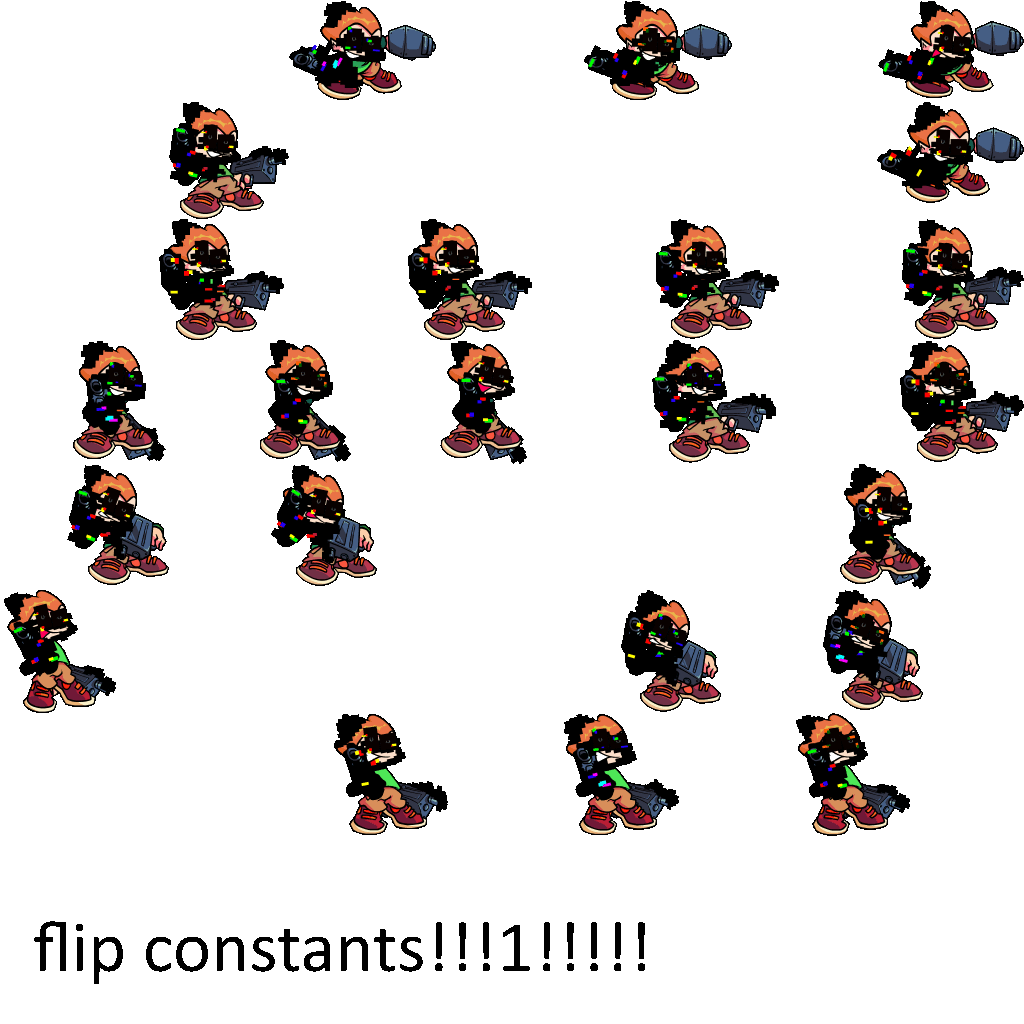
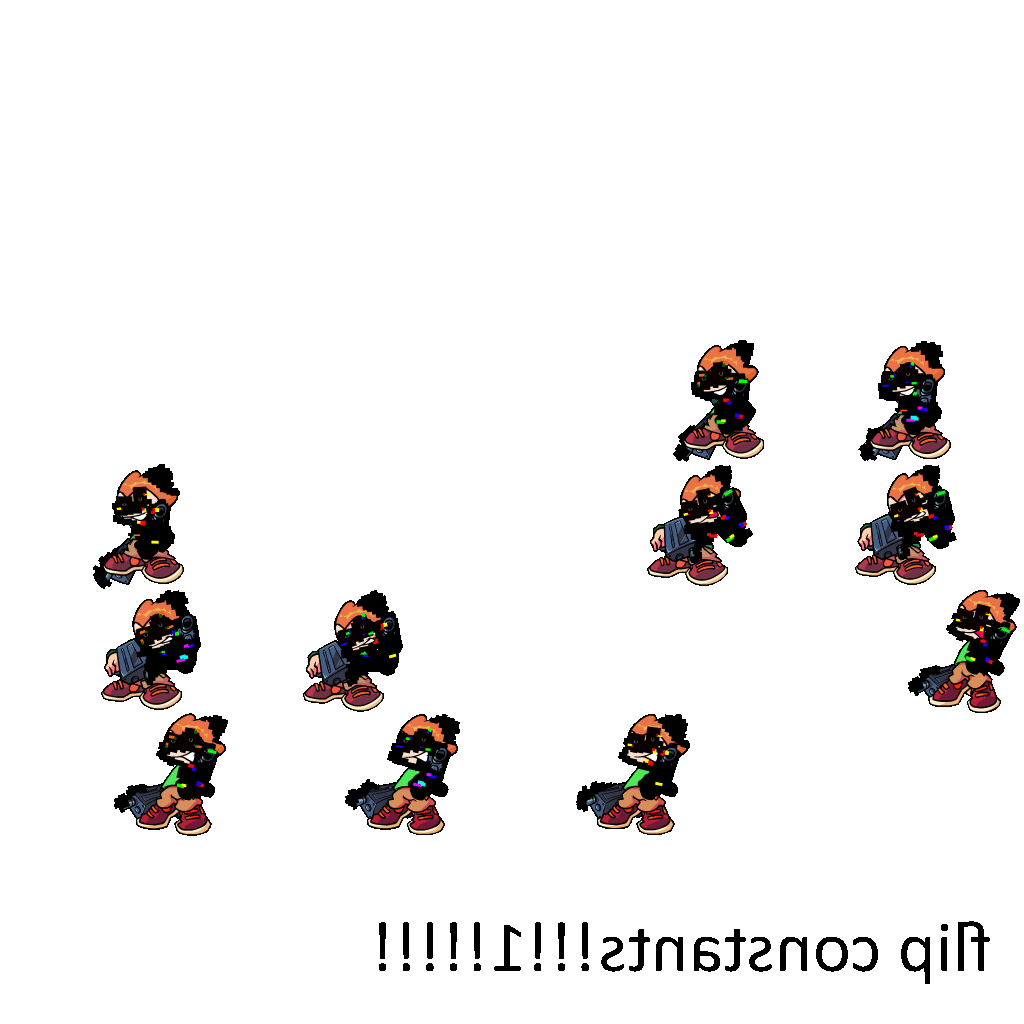
stuffs

diff --git a/src/character/pico.c b/src/character/pico.c
@@ -1,0 +1,177 @@
+/*
+  This Source Code Form is subject to the terms of the Mozilla Public
+  License, v. 2.0. If a copy of the MPL was not distributed with this
+  file, You can obtain one at http://mozilla.org/MPL/2.0/.
+*/
+
+#include "pico.h"
+
+#include "../mem.h"
+#include "../archive.h"
+#include "../stage.h"
+#include "../main.h"
+
+//pico character structure
+enum
+{
+	pico_ArcMain_Idle0,
+	pico_ArcMain_Idle1,
+	pico_ArcMain_Hit0,
+	pico_ArcMain_Hit1,
+	pico_ArcMain_Hit2,
+	pico_ArcMain_Hit3,
+	pico_ArcMain_Hit4,
+	
+	pico_Arc_Max,
+};
+
+typedef struct
+{
+	//Character base structure
+	Character character;
+	
+	//Render data and state
+	IO_Data arc_main;
+	IO_Data arc_ptr[pico_Arc_Max];
+	
+	Gfx_Tex tex;
+	u8 frame, tex_id;
+} Char_pico;
+
+//pico character definitions
+static const CharFrame char_pico_frame[] = {
+	{pico_ArcMain_Idle0, {  0,   0, 120, 117}, {0,  117}}, //0 idle 1
+	{pico_ArcMain_Idle0, {120,   0, 122, 120}, {0,  120}}, //1 idle 2
+	{pico_ArcMain_Idle0, {  0, 117, 123, 120}, {0,  119}}, //2 idle 3
+	{pico_ArcMain_Idle0, {123, 120, 124, 121}, {0,  121}}, //3 idle 4
+	{pico_ArcMain_Idle1, {  0,   0, 125, 121}, {0,  121}}, //4 idle 5
+	{pico_ArcMain_Idle1, {125,   0, 124, 121}, {0,  121}}, //5 idle 6
+	{pico_ArcMain_Idle1, {  0, 121, 124, 123}, {0,  122}}, //6 idle 7
+
+	{pico_ArcMain_Hit2, { 91,  123, 106,  121}, {0,  121}}, //4 left 1
+	{pico_ArcMain_Hit3, {  0,   0,  102,  120}, {0,  120}}, //5 left 2
+	{pico_ArcMain_Hit3, {102,   0,  100,  120}, {0,  120}}, //4 left 1
+	{pico_ArcMain_Hit3, {  0, 120,  100,  122}, {0,  121}}, //5 left 2
+
+	{pico_ArcMain_Hit0, {  0,   0, 146,  97}, {0,  97}}, //6 down 1
+	{pico_ArcMain_Hit0, {  0,  97, 148,  99}, {0,  99}}, //7 down 2
+	{pico_ArcMain_Hit1, {  0,   0, 147,  99}, {0,  99}}, //6 down 1
+	{pico_ArcMain_Hit1, {  0,  99, 147,  101}, {0,  101}}, //7 down 2
+
+	{pico_ArcMain_Hit3, {100, 120, 112,  123}, {0, 123}}, //8 up 1
+	{pico_ArcMain_Hit4, {  0,   0, 114,  123}, {0,  122}}, //9 up 2
+	{pico_ArcMain_Hit4, {114,   0, 115,  121}, {0,  121}}, //8 up 1
+	{pico_ArcMain_Hit4, {  0, 123, 114,  121}, {0,  0}}, //9 up 2
+	
+	{pico_ArcMain_Idle1,  {124, 121, 87, 123}, {0,  117}}, //10 right 1
+	{pico_ArcMain_Hit2, {  0,   0, 91, 122}, {0,  119}}, //11 right 2
+	{pico_ArcMain_Hit2, { 91,   0, 93, 120}, {0,  118}}, //10 right 1
+	{pico_ArcMain_Hit2, {  0, 122, 91, 125}, {0,  120}}, //11 right 2
+};
+
+static const Animation char_pico_anim[CharAnim_Max] = {
+	{2, (const u8[]){ 0, 1, 2, 3, 4, 5, 6, 7, ASCR_BACK, 0}}, //CharAnim_Idle
+	{2, (const u8[]){ 8, 9, 10, 11, ASCR_BACK, 0}},         //CharAnim_Left
+	{0, (const u8[]){ASCR_CHGANI, CharAnim_Idle}},   //CharAnim_LeftAlt
+	{2, (const u8[]){ 12, 13, 14, 15, ASCR_BACK, 0}},         //CharAnim_Down
+	{0, (const u8[]){ASCR_CHGANI, CharAnim_Idle}},   //CharAnim_DownAlt
+	{2, (const u8[]){ 16, 17, 18, 19, ASCR_BACK, 0}},         //CharAnim_Up
+	{0, (const u8[]){ASCR_CHGANI, CharAnim_Idle}},   //CharAnim_UpAlt
+	{2, (const u8[]){ 20, 21, 22, 23, ASCR_BACK, 0}},         //CharAnim_Right
+	{0, (const u8[]){ASCR_CHGANI, CharAnim_Idle}},   //CharAnim_RightAlt
+};
+
+//pico character functions
+void Char_pico_SetFrame(void *user, u8 frame)
+{
+	Char_pico *this = (Char_pico*)user;
+	
+	//Check if this is a new frame
+	if (frame != this->frame)
+	{
+		//Check if new art shall be loaded
+		const CharFrame *cframe = &char_pico_frame[this->frame = frame];
+		if (cframe->tex != this->tex_id)
+			Gfx_LoadTex(&this->tex, this->arc_ptr[this->tex_id = cframe->tex], 0);
+	}
+}
+
+void Char_pico_Tick(Character *character)
+{
+	Char_pico *this = (Char_pico*)character;
+	
+	//Perform idle dance
+	if ((character->pad_held & (INPUT_LEFT | INPUT_DOWN | INPUT_UP | INPUT_RIGHT)) == 0)
+		Character_PerformIdle(character);
+	
+	//Animate and draw
+	Animatable_Animate(&character->animatable, (void*)this, Char_pico_SetFrame);
+	Character_CharacterFlip(character, &this->tex, &char_pico_frame[this->frame], FIXED_UNIT);
+}
+
+void Char_pico_SetAnim(Character *character, u8 anim)
+{
+	//Set animation
+	Animatable_SetAnim(&character->animatable, anim);
+	Character_CheckStartSing(character);
+}
+
+void Char_pico_Free(Character *character)
+{
+	Char_pico *this = (Char_pico*)character;
+	
+	//Free art
+	Mem_Free(this->arc_main);
+}
+
+Character *Char_pico_New(fixed_t x, fixed_t y)
+{
+	//Allocate pico object
+	Char_pico *this = Mem_Alloc(sizeof(Char_pico));
+	if (this == NULL)
+	{
+		sprintf(error_msg, "[Char_pico_New] Failed to allocate pico object");
+		ErrorLock();
+		return NULL;
+	}
+	
+	//Initialize character
+	this->character.tick = Char_pico_Tick;
+	this->character.set_anim = Char_pico_SetAnim;
+	this->character.free = Char_pico_Free;
+	
+	Animatable_Init(&this->character.animatable, char_pico_anim);
+	Character_Init((Character*)this, x, y);
+	
+	//Set character information
+	this->character.spec = 0;
+	
+	this->character.health_i = 1;
+	
+	this->character.focus_x = FIXED_DEC(-142 - -120,1);
+	this->character.focus_y = FIXED_DEC(25 - 120,1);
+	this->character.focus_zoom = FIXED_DEC(8,10);
+	
+	//Load art
+	this->arc_main = IO_Read("\\CHAR\\PICO.ARC;1");
+	
+	const char **pathp = (const char *[]){
+		"idle0.tim", //pico_ArcMain_Idle0
+		"idle1.tim", //pico_ArcMain_Idle1
+		"hit0.tim",
+		"hit1.tim",
+		"hit2.tim",
+		"hit3.tim",
+		"hit4.tim",
+		
+		NULL
+	};
+	IO_Data *arc_ptr = this->arc_ptr;
+	for (; *pathp != NULL; pathp++)
+		*arc_ptr++ = Archive_Find(this->arc_main, *pathp);
+	
+	//Initialize render state
+	this->tex_id = this->frame = 0xFF;
+	
+	return (Character*)this;
+}

diff --git a/src/stage/week2.c b/src/stage/week2.c
@@ -10,6 +10,9 @@
 #include "../mem.h"
 #include "../archive.h"
 
+
+//#include "../pad.h"
+//int x, y, w, h;
 //Week 2 background structure
 typedef struct
 {
@@ -29,14 +32,34 @@ void Back_Week2_DrawBG(StageBack *back)
 	fixed_t fx, fy;
 	fx = stage.camera.x;
 	fy = stage.camera.y;
-	
+/*	
+	FntPrint("x%d y%d w%d h%d", x, y, w, h);
+
+	if (pad_state.held & PAD_LEFT)
+		x++;
+	if (pad_state.held & PAD_RIGHT)
+		x--;
+	if (pad_state.held & PAD_UP)
+		y++;
+	if (pad_state.held & PAD_DOWN)
+		y--;
+
+	if (pad_state.held & PAD_SQUARE)
+		w++;
+	if (pad_state.held & PAD_CIRCLE)
+		w--;
+	if (pad_state.held & PAD_TRIANGLE)
+		h++;
+	if (pad_state.held & PAD_CROSS)
+		h--;
+ */
 	//Draw background
 	RECT back_src = {0, 0, 256, 256};
 	RECT_FIXED back_dst = {
-		FIXED_DEC(-185,1) - fx,
-		FIXED_DEC(-125,1) - fy,
-		FIXED_DEC(353,1),
-		FIXED_DEC(267,1)
+		FIXED_DEC(-227,1) - fx,
+		FIXED_DEC(-111,1) - fy,
+		FIXED_DEC(523,1),
+		FIXED_DEC(304,1)
 	};
 	
 	Stage_DrawTex(&this->tex_back0, &back_src, &back_dst, stage.camera.bzoom);

diff --git a/src/character.c b/src/character.c
@@ -40,6 +40,17 @@ void Character_DrawParallax(Character *this, Gfx_Tex *tex, const CharFrame *cfra
 	fixed_t y = this->y - FIXED_MUL(stage.camera.y, parallax) - FIXED_DEC(cframe->off[1],1);
 	
 	RECT src = {cframe->src[0], cframe->src[1], cframe->src[2], cframe->src[3]};
+	RECT_FIXED dst = {x, y, -src.w << FIXED_SHIFT, src.h << FIXED_SHIFT};
+	Stage_DrawTex(tex, &src, &dst, stage.camera.bzoom);
+}
+
+void CharacterFlip(Character *this, Gfx_Tex *tex, const CharFrame *cframe, fixed_t parallax)
+{
+	//Draw character
+	fixed_t x = this->x - FIXED_MUL(stage.camera.x, parallax) - FIXED_DEC(-cframe->off[0],1);
+	fixed_t y = this->y - FIXED_MUL(stage.camera.y, parallax) - FIXED_DEC(cframe->off[1],1);
+	
+	RECT src = {cframe->src[0], cframe->src[1], cframe->src[2], cframe->src[3]};
 	RECT_FIXED dst = {x, y, src.w << FIXED_SHIFT, src.h << FIXED_SHIFT};
 	Stage_DrawTex(tex, &src, &dst, stage.camera.bzoom);
 }

diff --git a/src/character.h b/src/character.h
@@ -62,6 +62,7 @@ typedef struct Character
 void Character_Free(Character *this);
 void Character_Init(Character *this, fixed_t x, fixed_t y);
 void Character_DrawParallax(Character *this, Gfx_Tex *tex, const CharFrame *cframe, fixed_t parallax);
+void Character_CharacterFlip(Character *this, Gfx_Tex *tex, const CharFrame *cframe, fixed_t parallax);
 void Character_Draw(Character *this, Gfx_Tex *tex, const CharFrame *cframe);
 
 void Character_CheckStartSing(Character *this);

diff --git a/src/stagedef_disc1.h b/src/stagedef_disc1.h
@@ -103,13 +103,13 @@
 	},
 	{ //StageId_2_3 (last-spooktober)
 		//Characters
-		{Char_BF_New,      FIXED_DEC(56,1),   FIXED_DEC(85,1)},
-		{Char_Spook_New,  FIXED_DEC(-90,1),   FIXED_DEC(85,1)},
+		{Char_BF_New,      FIXED_DEC(56,1),   FIXED_DEC(120,1)},
+		{Char_Spook_New,  FIXED_DEC(-90,1),   FIXED_DEC(120,1)},
 		{NULL},
 		{NULL},
 		
 		//Stage background
-		Back_Week1_New,
+		Back_Week2_New,
 		
 		//Song info
 		{FIXED_DEC(1,1),FIXED_DEC(3,1),FIXED_DEC(1,1)},

diff --git a/src/character/bf.c b/src/character/bf.c
@@ -412,7 +412,7 @@ Character *Char_BF_New(fixed_t x, fixed_t y)
 	this->character.health_i = 0;
 	
 	this->character.focus_x = FIXED_DEC(-50,1);
-	this->character.focus_y = (stage.stage_id == StageId_1_4) ? FIXED_DEC(-85,1) : FIXED_DEC(-65,1);
+	this->character.focus_y = (stage.stage_id == StageId_2_3) ? FIXED_DEC(40 - 120,1) : FIXED_DEC(-65,1);
 	this->character.focus_zoom = FIXED_DEC(1,1);
 	
 	//Load art

diff --git a/src/character/spook.c b/src/character/spook.c
@@ -162,8 +162,8 @@ Character *Char_Spook_New(fixed_t x, fixed_t y)
 	this->character.health_i = 9;
 	
 	this->character.focus_x =  FIXED_DEC(65,1);
-	this->character.focus_y = FIXED_DEC(-80,1);
-	this->character.focus_zoom = FIXED_DEC(1,1);
+	this->character.focus_y = FIXED_DEC(40 - 120,1);
+	this->character.focus_zoom = FIXED_DEC(8,10);
 	
 	//Load art
 	this->arc_main = IO_Read("\\CHAR\\SPOOK.ARC;1");

diff --git a/src/character/pico.h b/src/character/pico.h
@@ -1,0 +1,15 @@
+/*
+  This Source Code Form is subject to the terms of the Mozilla Public
+  License, v. 2.0. If a copy of the MPL was not distributed with this
+  file, You can obtain one at http://mozilla.org/MPL/2.0/.
+*/
+
+#ifndef PSXF_GUARD_PICO_H
+#define PSXF_GUARD_PICO_H
+
+#include "../character.h"
+
+//pico character functions
+Character *Char_pico_New(fixed_t x, fixed_t y);
+
+#endif

diff --git a/src/stage.c b/src/stage.c
@@ -23,7 +23,7 @@
 
 //Stage constants
 //#define STAGE_NOHUD //Disable the HUD
-#define STAGE_FREECAM //Freecam
+//#define STAGE_FREECAM //Freecam
 
 static int note_x[8] = {
 	//BF
